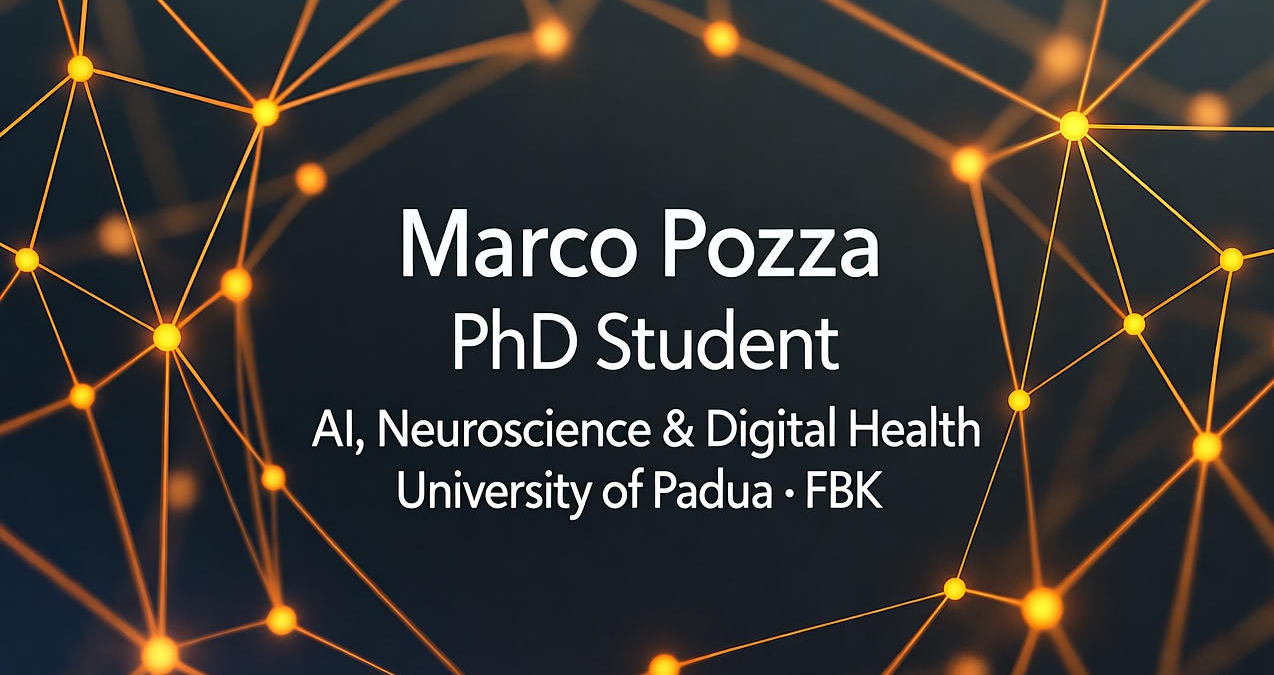
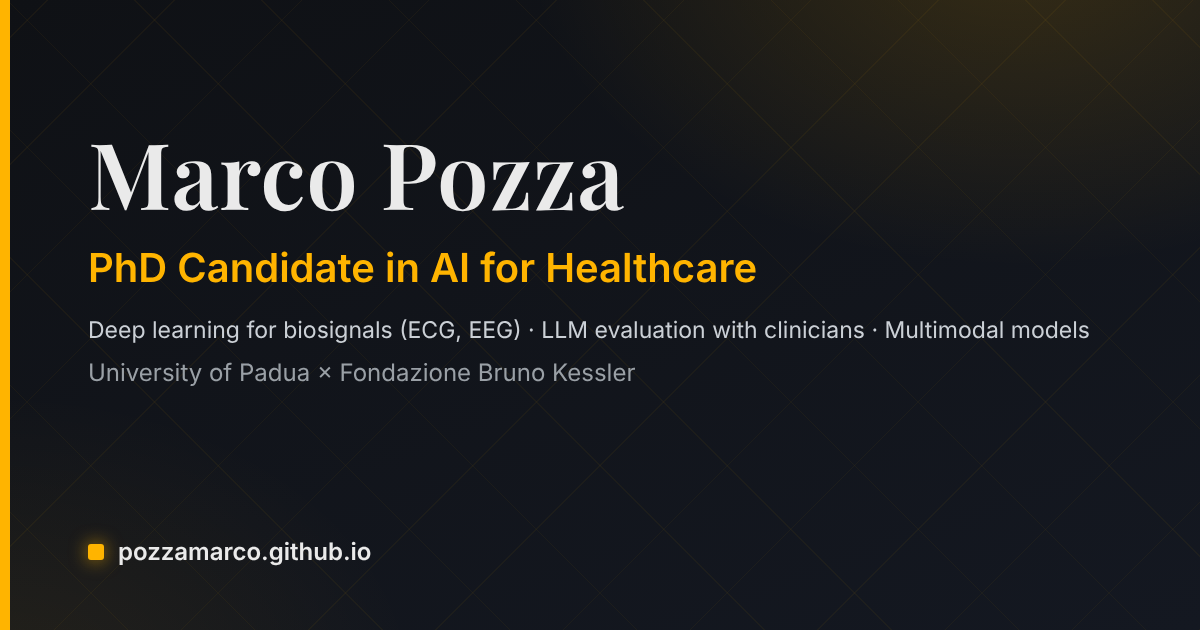
Refresh portfolio content and site metadata
Updates the homepage to reflect current positioning (“AI for Healthcare”), revised bio, projects, skills, and contact details, including a new personal email and updated social preview image. Refreshes publications and timeline data (including the 2025 umbrella review and 2026 research stay), adds supporting CSS for new hero/card elements, and simplifies robots/sitemap entries with an updated lastmod date.

diff --git a/index.html b/index.html
@@ -5,17 +5,17 @@
   <meta name="viewport" content="width=device-width, initial-scale=1" />
   <meta http-equiv="Content-Security-Policy" content="default-src 'self'; script-src 'self'; style-src 'self' https://fonts.googleapis.com; font-src 'self' https://fonts.gstatic.com; img-src 'self' data: https:; connect-src 'self'; object-src 'none'; base-uri 'self'; form-action 'self';">
 
-  <title>Marco Pozza – Machine Learning for Health</title>
+  <title>Marco Pozza – AI for Healthcare</title>
   <meta name="description" content="Marco Pozza, PhD researcher (University of Padua × FBK): machine learning for clinical data, EEG/ECG biosignals, LLMs and COPD exacerbation prediction. Projects, publications and CV." />
   <link rel="canonical" href="https://pozzamarco.github.io/" />
 
   <meta property="og:type" content="website">
   <meta property="og:url" content="https://pozzamarco.github.io/">
-  <meta property="og:title" content="Marco Pozza – Machine Learning for Health">
+  <meta property="og:title" content="Marco Pozza – AI for Healthcare">
   <meta property="og:description" content="Machine learning for clinical data: biosignals (EEG/ECG), LLMs and chronic disease prediction. PhD researcher, University of Padua × FBK.">
   <meta property="og:image" content="https://pozzamarco.github.io/assets/images/preview.png">
   <meta name="twitter:card" content="summary_large_image">
-  <meta name="twitter:title" content="Marco Pozza – Machine Learning for Health">
+  <meta name="twitter:title" content="Marco Pozza – AI for Healthcare">
   <meta name="twitter:description" content="Machine learning for clinical data: biosignals (EEG/ECG), LLMs and chronic disease prediction.">
   <meta name="twitter:image" content="https://pozzamarco.github.io/assets/images/preview.png">
 
@@ -34,7 +34,7 @@
     "description": "Machine learning for clinical data: biosignals (EEG/ECG), LLMs and chronic disease prediction.",
     "image": "https://pozzamarco.github.io/assets/images/photo.jpg",
     "url": "https://pozzamarco.github.io/",
-    "email": "mailto:marco.pozza.3@phd.unipd.it",
+    "email": "mailto:pozza.marco95@gmail.com",
     "affiliation": [
       { "@type": "CollegeOrUniversity", "name": "University of Padua" },
       { "@type": "ResearchOrganization", "name": "Fondazione Bruno Kessler" }
@@ -73,11 +73,11 @@
            width="170" height="170" fetchpriority="high" />
       <div class="hero__content">
         <h1 class="hero__name">Marco Pozza</h1>
-        <!-- TODO: allinea questa riga alla headline di LinkedIn -->
-        <p class="hero__headline">Machine learning for clinical data: biosignals (EEG/ECG), LLMs and chronic disease prediction</p>
-        <p class="hero__role">PhD researcher · Brain, Mind &amp; Computer Science, University of Padua × Fondazione Bruno Kessler</p>
+        <p class="hero__headline">PhD Candidate in AI for Healthcare</p>
+        <p class="hero__focus">Deep learning for biosignals (ECG, EEG) · LLM evaluation with clinicians · Multimodal models</p>
+        <p class="hero__role">Brain, Mind &amp; Computer Science · University of Padua × Fondazione Bruno Kessler</p>
         <div class="hero__buttons">
-          <a class="btn btn--accent" href="assets/Marco_Pozza_CV.pdf" download>Download CV</a>
+          <!-- <a class="btn btn--accent" href="assets/Marco_Pozza_CV.pdf" download>Download CV</a> -->
           <a class="btn btn--ghost" href="https://www.linkedin.com/in/marco-pozza-3ab072171/" target="_blank" rel="noopener">LinkedIn</a>
           <a class="btn btn--ghost" href="https://github.com/PozzaMarco" target="_blank" rel="noopener">GitHub</a>
         </div>
@@ -90,22 +90,21 @@
       <div class="about__grid">
         <div class="prose">
           <p>
-            I am a PhD researcher in <em>Brain, Mind &amp; Computer Science</em> at the
+            I am a PhD candidate in <em>Brain, Mind &amp; Computer Science</em> at the
             <strong>University of Padua</strong>, funded by and working with
             <strong>Fondazione Bruno Kessler (FBK)</strong>. I build machine learning models for
-            clinical data, with a focus on predicting exacerbations of <strong>Chronic Obstructive
+            clinical data, with a focus on multimodal prediction of hospital readmission in <strong>Chronic Obstructive
             Pulmonary Disease (COPD)</strong> and on how clinicians come to trust AI-generated outputs.
           </p>
           <p>
-            Before the PhD I worked at <em>Ca’ Foscari University of Venice</em> on deep learning for
-            EEG-based epilepsy prediction and on large language models for cognitive analysis,
+            Before the PhD I collaborated on EEG-based seizure prediction research at the University of Padua
+            and built RAG systems for knowledge management at <em>Ca’ Foscari University of Venice</em>,
             after an M.Sc. in Artificial Intelligence (University of Padua, 2023).
           </p>
         </div>
         <ul class="facts">
           <li><span class="facts__label">Research stay</span>FORTH, Heraklion (Greece), 2026</li>
-          <!-- TODO: nome completo della collaboratrice + link alla sua pagina -->
-          <li><span class="facts__label">Collaboration</span>University of Trieste: robustness evaluation of hvEEGNet, an EEG reconstruction model</li>
+          <li><span class="facts__label">Collaboration</span>With <a href="https://sites.google.com/view/giulia-cisotto/home-page" target="_blank" rel="noopener">Giulia Cisotto</a> (University of Trieste): robustness evaluation of hvEEGNet, an EEG reconstruction model</li>
           <li><span class="facts__label">Service</span>Arqus Ambassador · Peer reviewer</li>
         </ul>
       </div>
@@ -119,50 +118,64 @@
       </div>
       <div class="cards">
         <article class="card">
-          <h3>COPD exacerbation prediction</h3>
-          <p>Models that identify patients at risk of COPD exacerbations, to support prevention and self-management.</p>
-          <ul class="tags"><li>Machine learning</li><li>Multimodal data</li><li>Digital health</li></ul>
-          <!-- TODO: link a paper/preprint quando disponibile -->
+          <span class="card__status">2 papers in preparation</span>
+          <h3>Multimodal prediction of COPD readmission</h3>
+          <p>Fusing structured EHR, ECG, chest X-rays and clinical notes from MIMIC-IV to predict 30-day hospital readmission in COPD patients, using frozen pre-trained encoders (ECG-JEPA, BiomedCLIP, Bio_ClinicalBERT) and gated fusion. The focus is rigorous evaluation: strict temporal leakage control, calibration, informative missingness and statistical power.</p>
+          <ul class="tags"><li>Multimodal deep learning</li><li>MIMIC-IV</li><li>Clinical prediction</li></ul>
+          <a class="card__link" href="https://www.mdpi.com/2227-9032/13/23/3037" target="_blank" rel="noopener">Related umbrella review (Healthcare, 2025) ↗</a>
         </article>
         <article class="card">
+          <span class="card__status">Ongoing study</span>
           <h3>Clinician trust in LLM-generated notes</h3>
-          <p>A study, which I lead as principal investigator, of how pulmonologists judge the reliability of LLM-generated clinical notes for COPD exacerbation prediction.</p>
+          <p>An ethics-approved study, which I lead as principal investigator, with pulmonologists and GPs on how LLM-generated explanations affect clinician trust in machine learning predictions for COPD.</p>
           <ul class="tags"><li>LLMs</li><li>Human–AI interaction</li><li>User study</li></ul>
         </article>
         <article class="card">
-          <h3>ECG-JEPA encoder</h3>
-          <p>A pipeline that integrates the self-supervised ECG-JEPA model to turn raw ECG signals into representations for downstream clinical prediction.</p>
-          <ul class="tags"><li>Self-supervised learning</li><li>ECG</li><li>Python</li></ul>
-          <!-- TODO: sostituisci con l'URL del repo quando è pulito -->
-          <a class="card__link" href="https://github.com/PozzaMarco" target="_blank" rel="noopener">Code on GitHub ↗</a>
+          <span class="card__status">Published</span>
+          <h3>EEG seizure forecasting</h3>
+          <p>M.Sc. thesis work on forecasting epileptic seizures from long-term EEG, comparing recurrent (LSTM) and convolutional architectures, followed by a systematic review of cross-patient seizure prediction.</p>
+          <ul class="tags"><li>EEG</li><li>Deep learning</li><li>Systematic review</li></ul>
+          <a class="card__link" href="#publications">See publications ↓</a>
         </article>
         <article class="card">
-          <h3>Deep learning for EEG</h3>
-          <p>A systematic review of deep learning for epileptic seizure prediction, and an evaluation of EEG reconstruction models under noise and artifacts.</p>
-          <ul class="tags"><li>EEG</li><li>Deep learning</li><li>Systematic review</li></ul>
+          <span class="card__status">Ongoing collaboration</span>
+          <h3>EEG signal reconstruction</h3>
+          <p>With Giulia Cisotto (University of Trieste): testing the robustness of hvEEGNet, a deep learning model for reconstructing corrupted EEG signals, under noise and artifacts.</p>
+          <ul class="tags"><li>EEG</li><li>Deep learning</li><li>Model evaluation</li></ul>
         </article>
       </div>
     </section>
 
     <!-- ===== Skills ===== -->
-    <!-- TODO: verifica e completa: metti solo ciò che sai difendere in un colloquio -->
     <section id="skills" aria-labelledby="skills-title">
       <div class="section-head"><h2 id="skills-title">Skills</h2></div>
       <div class="skills">
         <div class="skills__group">
           <h3>Machine learning</h3>
-          <p>Deep learning · Self-supervised learning · LLMs · Biosignal and time-series modelling</p>
+          <p>PyTorch · PyTorch Lightning · TensorFlow/Keras · scikit-learn · Hugging Face Transformers · Optuna</p>
         </div>
         <div class="skills__group">
-          <h3>Tools</h3>
-          <p>Python · PyTorch · Git</p>
+          <h3>LLMs</h3>
+          <p>Large-scale benchmarking of open and commercial models (Qwen, Mistral and others) · Prompting · Fine-tuning · RAG · LangChain · Ollama · OpenRouter</p>
+        </div>
+        <div class="skills__group">
+          <h3>Biosignals &amp; data</h3>
+          <p>EEG · ECG · MNE · NeuroKit2 · wfdb · SciPy · pandas · NumPy · SQL (PostgreSQL, MongoDB)</p>
+        </div>
+        <div class="skills__group">
+          <h3>Programming &amp; tools</h3>
+          <p><strong>Python</strong> · also Java, C/C++, C#, JavaScript/TypeScript, React, MATLAB · Git · Docker · Flask · Elasticsearch · Linux · Conda · uv · Jupyter · W&amp;B/MLflow · LaTeX</p>
         </div>
         <div class="skills__group">
           <h3>Research</h3>
-          <p>Study design with clinicians · Ethics submissions · Scientific writing · Peer review</p>
+          <p>Systematic reviews (PRISMA) · User studies with clinicians · Statistical analysis · Ethics &amp; GDPR · Peer review</p>
+        </div>
+        <div class="skills__group">
+          <h3>Languages</h3>
+          <p>Italian (native) · English (C1)</p>
         </div>
       </div>
-    </section>
+    </section>>
 
     <!-- ===== Publications ===== -->
     <section id="publications" aria-labelledby="pubs-title">
@@ -200,17 +213,13 @@
     <section id="contact" aria-labelledby="contact-title">
       <div class="section-head"><h2 id="contact-title">Contact</h2></div>
       <ul class="contact__list">
+        <li><a href="mailto:pozza.marco95@gmail.com">pozza.marco95@gmail.com</a></li>
         <li><a href="mailto:marco.pozza.3@phd.unipd.it">marco.pozza.3@phd.unipd.it</a></li>
-        <!-- TODO: aggiungi un'email personale (quella @phd.unipd.it scade con il dottorato) -->
         <li><a href="https://www.linkedin.com/in/marco-pozza-3ab072171/" target="_blank" rel="noopener">LinkedIn</a></li>
         <li><a href="https://github.com/PozzaMarco" target="_blank" rel="noopener">GitHub</a></li>
         <li><a href="https://orcid.org/0009-0004-5798-0297" target="_blank" rel="noopener">ORCID</a></li>
         <li><a href="https://hit.psy.unipd.it/pozza-marco" target="_blank" rel="noopener">University page</a></li>
       </ul>
-      <p>
-        <a class="btn btn--ghost" href="assets/Marco_Pozza_CV.pdf" download>Download CV (PDF)</a>
-        <!-- TODO: <span class="muted small">Last updated: mese anno</span> -->
-      </p>
     </section>
   </main>
 

diff --git a/assets/style.css b/assets/style.css
@@ -121,6 +121,8 @@ section:not(:last-of-type)::after {
 .hero__headline { font-size: clamp(1.1rem, 2.2vw, 1.35rem); line-height: 1.45; margin: 0 0 10px; max-width: 46ch; }
 .hero__role { color: var(--muted); margin: 0; }
 .hero__buttons { display: flex; flex-wrap: wrap; gap: 12px; margin-top: 24px; }
+.hero__focus { color: var(--ink-2); margin: 0 0 10px; max-width: 60ch; }
+@media (max-width: 860px) { .hero__focus { margin-inline: auto; } }
 
 /* ===== Buttons ===== */
 .btn {
@@ -148,6 +150,11 @@ section:not(:last-of-type)::after {
 
 /* ===== Project cards ===== */
 .cards { display: grid; grid-template-columns: repeat(auto-fit, minmax(260px, 1fr)); gap: 18px; }
+.card__status {
+  align-self: flex-start;
+  font-size: 0.7rem; font-weight: 600; letter-spacing: 0.5px; text-transform: uppercase;
+  color: var(--muted); border: 1px solid var(--line); border-radius: 999px; padding: 2px 9px;
+}
 .card {
   display: flex; flex-direction: column; gap: 10px;
   padding: 22px; border-radius: var(--radius);
@@ -170,6 +177,7 @@ section:not(:last-of-type)::after {
 .skills { display: grid; grid-template-columns: repeat(auto-fit, minmax(240px, 1fr)); gap: 18px; }
 .skills__group h3 { margin: 0 0 6px; font-size: 0.8rem; text-transform: uppercase; letter-spacing: 0.5px; color: var(--accent); }
 .skills__group p { margin: 0; color: var(--ink-2); }
+.skills__group strong { color: var(--ink); }
 
 /* ===== Publications ===== */
 .filters { display: flex; flex-wrap: wrap; gap: 16px; margin-bottom: 8px; }
@@ -266,6 +274,7 @@ body:has(.modal[open]) { overflow: hidden; }
   text-align: center; padding: 28px; color: var(--muted);
   border-top: 1px solid var(--line); background: rgba(20, 24, 33, 0.6);
 }
+.contact__list li { overflow-wrap: anywhere; }
 
 /* ===== Responsive ===== */
 @media (max-width: 860px) {
@@ -289,3 +298,4 @@ body:has(.modal[open]) { overflow: hidden; }
   html { scroll-behavior: auto; }
   *, *::before, *::after { transition: none !important; animation: none !important; }
 }
+@media (min-width: 760px) { .cards { grid-template-columns: repeat(2, 1fr); } }
